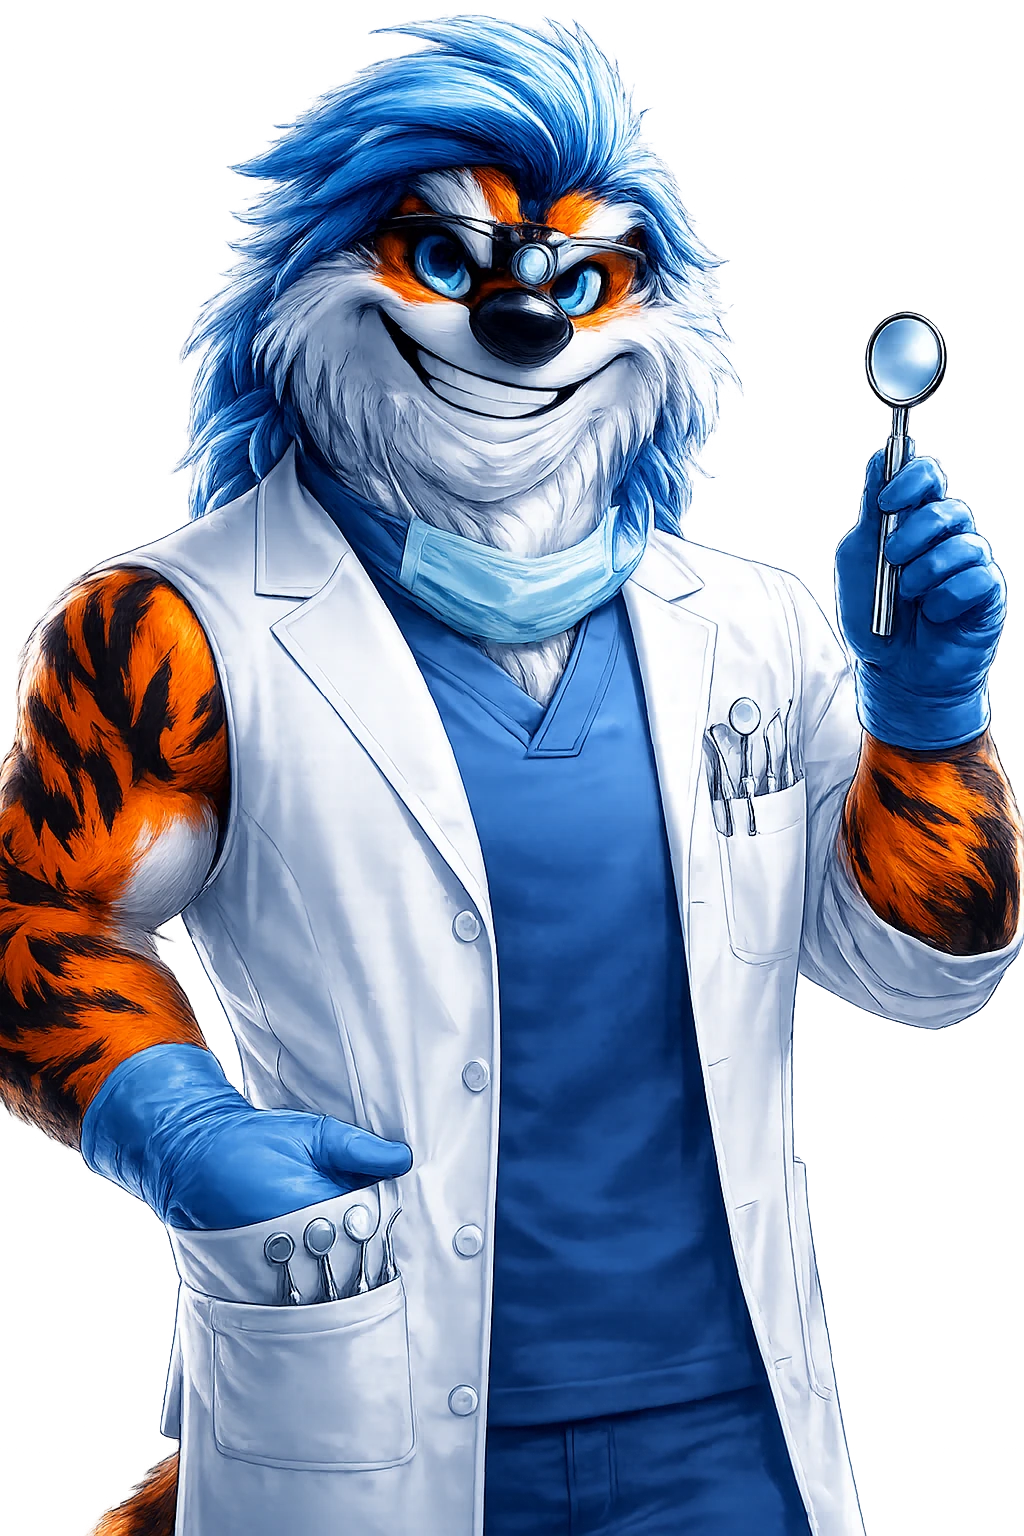
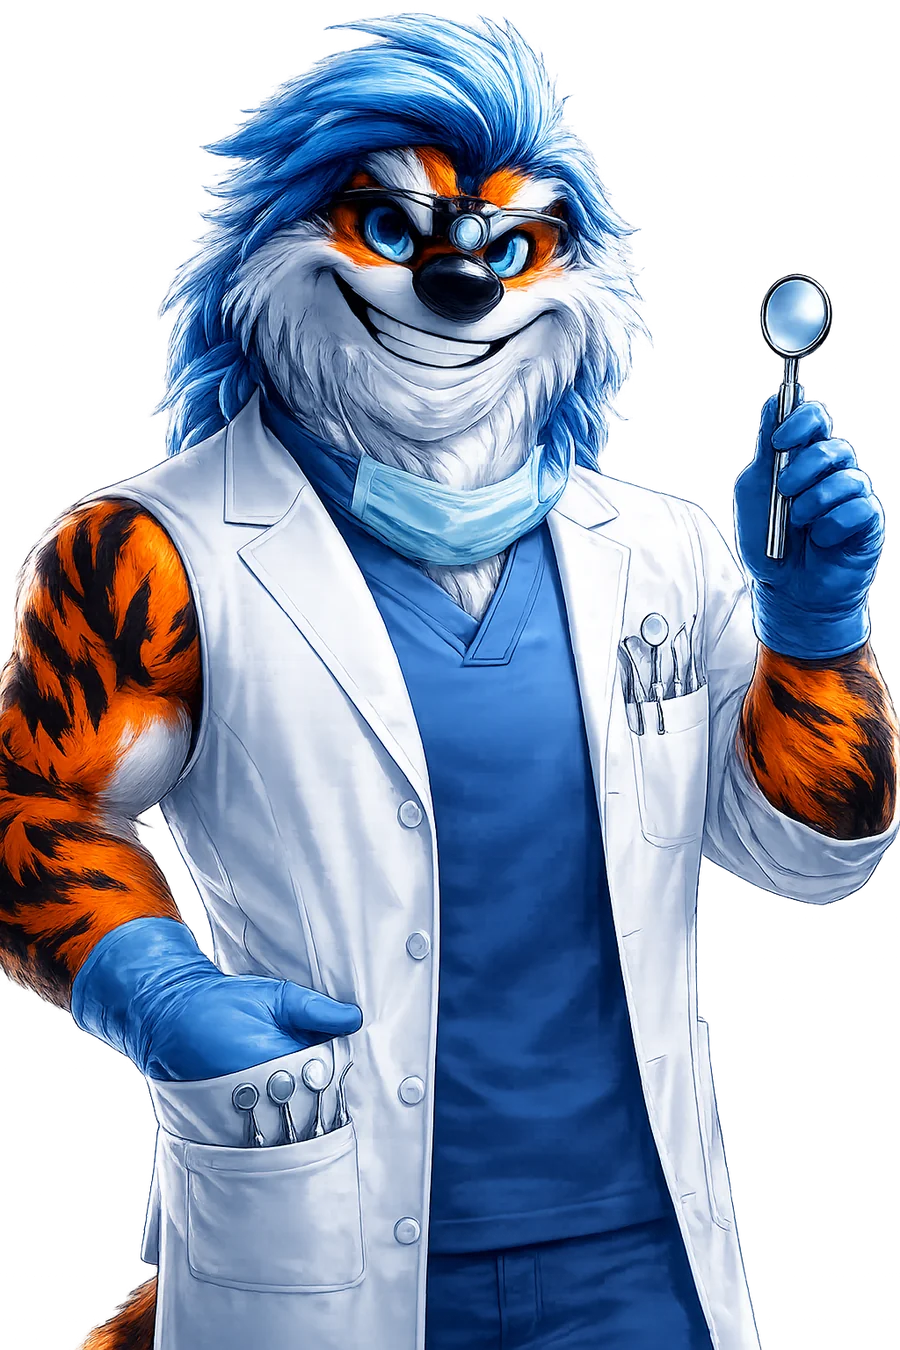
Add files via upload

Changed region(s): [[0.8711, 0.2489, 0.9022, 0.28], [0.6533, 0.1556, 0.6844, 0.1867], [0.56, 0.0622, 0.5911, 0.0933]]

diff --git a/index.html b/index.html
@@ -1,4 +1,4 @@
-<!doctype html><html lang="en-GB"><head><meta charset="utf-8"><meta name="viewport" content="width=device-width, initial-scale=1, viewport-fit=cover"><title>AI SEO for Dentists | Get Your Dental Practice Ready for AI Search | KRONATRIX</title><meta name="description" content="Learn how dentists can make their websites clearer, faster, more structured, and easier for ChatGPT, Gemini, Perplexity, Google AI, Bing Copilot, and patients to understand. Includes a free Dentist Marketing GPT and Dental AI Visibility Check by KRONATRIX."><meta name="keywords" content="AI SEO for dentists, dentist AI SEO, AI visibility for dentists, dental website AI SEO, get dental practice recommended by AI, ChatGPT visibility for dentists, AI website audit for dentists, dental AI visibility check, AI readable dental website, Google AI visibility for dentists"><meta name="author" content="KRONATRIX"><meta name="robots" content="index, follow, max-snippet:-1, max-image-preview:large, max-video-preview:-1"><meta name="googlebot" content="index, follow, max-snippet:-1, max-image-preview:large, max-video-preview:-1"><meta name="theme-color" content="#020617"><meta name="application-name" content="KRONATRIX AI.SEO for Dentists"><meta name="apple-mobile-web-app-title" content="KRONATRIX Dentists"><meta name="format-detection" content="telephone=no"><meta name="geo.region" content="GB"><meta name="geo.placename" content="United Kingdom"><link rel="canonical" href="https://dentists.kronatrix.co.uk/"><link rel="alternate" hreflang="en-gb" href="https://dentists.kronatrix.co.uk/"><link rel="alternate" hreflang="x-default" href="https://dentists.kronatrix.co.uk/"><link rel="preload" as="image" href="assets/kronatrix-k-logo.webp" type="image/webp"><link rel="preload" as="image" href="assets/spencer-aurelius-dentist-kronatrix.webp" type="image/webp"><link rel="icon" type="image/png" sizes="32x32" href="assets/favicon-32.png"><link rel="icon" type="image/png" sizes="64x64" href="assets/favicon-64.png"><link rel="apple-touch-icon" href="assets/apple-touch-icon.png"><meta property="og:type" content="website"><meta property="og:locale" content="en_GB"><meta property="og:site_name" content="KRONATRIX"><meta property="og:title" content="AI SEO for Dentists | KRONATRIX"><meta property="og:description" content="How dentists can make their websites easier for AI systems and patients to understand."><meta property="og:url" content="https://dentists.kronatrix.co.uk/"><meta property="og:image" content="https://dentists.kronatrix.co.uk/assets/og-image.webp"><meta property="og:image:alt" content="KRONATRIX AI.SEO for Dentists social preview with Spencer Aurelius dentist mascot"><meta name="twitter:card" content="summary_large_image"><meta name="twitter:title" content="AI SEO for Dentists | KRONATRIX"><meta name="twitter:description" content="Make your dental practice easier for AI systems and patients to understand."><meta name="twitter:image" content="https://dentists.kronatrix.co.uk/assets/og-image.webp"><style>
+<!doctype html><html lang="en-GB"><head><meta charset="utf-8"><meta name="viewport" content="width=device-width, initial-scale=1, viewport-fit=cover"><title>AI SEO for Dentists | Get Your Dental Practice Ready for AI Search | KRONATRIX</title><meta name="description" content="Learn how dentists can make their websites clearer, faster, more structured, and easier for ChatGPT, Gemini, Perplexity, Google AI, Bing Copilot, and patients to understand. Includes a free Dentist Marketing GPT and Dental AI Visibility Check by KRONATRIX."><meta name="keywords" content="AI SEO for dentists, dentist AI SEO, AI visibility for dentists, dental website AI SEO, get dental practice recommended by AI, ChatGPT visibility for dentists, AI website audit for dentists, dental AI visibility check, AI readable dental website, Google AI visibility for dentists"><meta name="author" content="KRONATRIX"><meta name="robots" content="index, follow, max-snippet:-1, max-image-preview:large, max-video-preview:-1"><meta name="googlebot" content="index, follow, max-snippet:-1, max-image-preview:large, max-video-preview:-1"><meta name="theme-color" content="#020617"><meta name="application-name" content="KRONATRIX AI.SEO for Dentists"><meta name="apple-mobile-web-app-title" content="KRONATRIX Dentists"><meta name="format-detection" content="telephone=no"><meta name="geo.region" content="GB"><meta name="geo.placename" content="United Kingdom"><link rel="canonical" href="https://dentists.kronatrix.co.uk/"><link rel="alternate" hreflang="en-gb" href="https://dentists.kronatrix.co.uk/"><link rel="alternate" hreflang="x-default" href="https://dentists.kronatrix.co.uk/"><link rel="preload" as="image" href="kronatrix-k-logo.webp" type="image/webp"><link rel="preload" as="image" href="spencer-aurelius-dentist-kronatrix.webp" type="image/webp"><link rel="icon" type="image/png" sizes="32x32" href="favicon-32.png"><link rel="icon" type="image/png" sizes="64x64" href="favicon-64.png"><link rel="apple-touch-icon" href="apple-touch-icon.png"><meta property="og:type" content="website"><meta property="og:locale" content="en_GB"><meta property="og:site_name" content="KRONATRIX"><meta property="og:title" content="AI SEO for Dentists | KRONATRIX"><meta property="og:description" content="How dentists can make their websites easier for AI systems and patients to understand."><meta property="og:url" content="https://dentists.kronatrix.co.uk/"><meta property="og:image" content="https://dentists.kronatrix.co.uk/og-image.webp"><meta property="og:image:alt" content="KRONATRIX AI.SEO for Dentists social preview with Spencer Aurelius dentist mascot"><meta name="twitter:card" content="summary_large_image"><meta name="twitter:title" content="AI SEO for Dentists | KRONATRIX"><meta name="twitter:description" content="Make your dental practice easier for AI systems and patients to understand."><meta name="twitter:image" content="https://dentists.kronatrix.co.uk/og-image.webp"><style>
     :root{--bg:#020617;--bg2:#071124;--panel:#071426;--panel2:#0f172a;--text:#f8fafc;--soft:#e0f2fe;--muted:#b9c7d8;--dim:#7890aa;--blue:#38bdf8;--cyan:#67e8f9;--green:#86efac;--orange:#ff9b3d;--line:rgba(125,211,252,.22);--line2:rgba(255,255,255,.10);--shadow:0 26px 80px rgba(0,0,0,.42);--radius:28px;--radius2:18px;--max:1180px}*{box-sizing:border-box}html{scroll-behavior:smooth;background:var(--bg)}body{margin:0;font-family:Inter,ui-sans-serif,system-ui,-apple-system,BlinkMacSystemFont,"Segoe UI",Arial,sans-serif;color:var(--text);background:radial-gradient(circle at 15% 0%,rgba(56,189,248,.23),transparent 32rem),radial-gradient(circle at 88% 7%,rgba(134,239,172,.10),transparent 33rem),linear-gradient(180deg,#020617 0%,#071124 48%,#020617 100%);line-height:1.55;overflow-x:hidden;text-rendering:optimizeLegibility;-webkit-font-smoothing:antialiased}body:before{content:"";position:fixed;inset:0;z-index:-1;pointer-events:none;background-image:linear-gradient(rgba(125,211,252,.045) 1px,transparent 1px),linear-gradient(90deg,rgba(125,211,252,.045) 1px,transparent 1px);background-size:48px 48px;mask-image:linear-gradient(to bottom,#000,transparent 82%)}a{color:inherit;text-decoration:none}img{max-width:100%;height:auto;display:block}button,input,textarea,select{font:inherit}.skip{position:absolute;left:14px;top:-90px;background:var(--cyan);color:#00111c;padding:10px 14px;border-radius:999px;font-weight:1000;z-index:999}.skip:focus{top:14px}.wrap{width:min(var(--max),calc(100% - 32px));margin:0 auto}header{position:sticky;top:0;z-index:100;background:rgba(2,6,23,.84);border-bottom:1px solid var(--line);backdrop-filter:blur(18px)}.nav{min-height:76px;display:flex;align-items:center;justify-content:space-between;gap:14px}.brand{display:flex;align-items:center;gap:12px;min-width:0}.brand img{width:52px;height:52px;border-radius:18px;object-fit:cover;border:1px solid rgba(103,232,249,.45);box-shadow:0 0 34px rgba(56,189,248,.28)}.brand strong{display:block;line-height:1.05;font-size:1rem;letter-spacing:.055em;text-transform:uppercase}.brand span{display:block;color:var(--muted);font-size:.78rem;margin-top:4px}.navlinks{display:flex;align-items:center;justify-content:flex-end;gap:7px;flex-wrap:wrap}.navlinks a{color:var(--muted);font-size:.84rem;font-weight:850;padding:9px 10px;border-radius:999px;border:1px solid transparent}.navlinks a:hover,.navlinks a:focus-visible{color:#fff;border-color:var(--line);background:rgba(56,189,248,.08);outline:0}.btn{display:inline-flex;align-items:center;justify-content:center;gap:9px;min-height:48px;padding:13px 18px;border-radius:999px;border:1px solid var(--line);background:rgba(255,255,255,.045);color:#fff;font-weight:950;text-align:center;transition:transform .18s ease,box-shadow .18s ease,border-color .18s ease;cursor:pointer}.btn:hover,.btn:focus-visible{transform:translateY(-2px);border-color:rgba(103,232,249,.7);box-shadow:0 18px 52px rgba(56,189,248,.20);outline:0}.btn.primary{background:linear-gradient(135deg,var(--green),var(--cyan) 40%,#2563eb);color:#00111c;border-color:rgba(134,239,172,.64);box-shadow:0 22px 70px rgba(56,189,248,.28)}.top-strip{border-bottom:1px solid var(--line2);background:rgba(2,6,23,.62)}.top-strip .wrap{min-height:39px;display:flex;align-items:center;justify-content:center;text-align:center;color:var(--soft);font-size:.9rem;font-weight:800}.top-strip strong{color:var(--green)}.hero{padding:30px 0 28px;border-bottom:1px solid var(--line2)}.hero-grid{display:grid;grid-template-columns:minmax(0,1.06fr) minmax(300px,.94fr);gap:18px;align-items:stretch}.panel,.card,.answer-box,.hero-main,.hero-side,.form-card{border:1px solid var(--line);background:linear-gradient(180deg,rgba(15,29,53,.88),rgba(7,17,36,.86));box-shadow:var(--shadow);border-radius:var(--radius)}.hero-main{padding:clamp(22px,4vw,42px);display:grid;align-content:center;min-height:620px;position:relative;overflow:hidden}.hero-main:after{content:"";position:absolute;right:-130px;top:-130px;width:320px;height:320px;border-radius:50%;background:radial-gradient(circle,rgba(103,232,249,.20),transparent 68%);pointer-events:none}.badge-row{display:flex;gap:8px;align-items:center;flex-wrap:wrap;margin-bottom:14px}.badge{display:inline-flex;align-items:center;gap:8px;border:1px solid rgba(103,232,249,.34);background:rgba(56,189,248,.09);border-radius:999px;padding:8px 11px;color:var(--cyan);font-size:.74rem;font-weight:1000;text-transform:uppercase;letter-spacing:.08em}.badge.green{color:#022c22;background:linear-gradient(135deg,#86efac,#22c55e);border-color:rgba(134,239,172,.55)}.pulse{width:8px;height:8px;border-radius:50%;background:var(--green);box-shadow:0 0 22px var(--green)}h1{font-size:clamp(2.55rem,6vw,5.3rem);line-height:.9;letter-spacing:-.075em;margin:0 0 16px;max-width:900px}h2{font-size:clamp(1.85rem,4vw,3.5rem);line-height:1;letter-spacing:-.055em;margin:0 0 14px}h3{font-size:clamp(1.08rem,2vw,1.42rem);line-height:1.12;letter-spacing:-.035em;margin:0 0 9px}p{margin:0;color:var(--muted)}.gradient{background:linear-gradient(135deg,#fff 4%,#8ff7ff 42%,#60a5fa 72%,#fff 100%);-webkit-background-clip:text;background-clip:text;color:transparent}.lead{font-size:clamp(1.02rem,1.7vw,1.22rem);color:var(--soft);max-width:780px;margin:0 0 16px}.sublead{color:var(--muted);max-width:760px;margin:0 0 18px}.hero-actions{display:flex;gap:10px;flex-wrap:wrap;margin:20px 0 18px}.microproof{display:grid;grid-template-columns:repeat(4,1fr);gap:10px;margin-top:16px}.microproof div{border:1px solid var(--line2);border-radius:17px;background:rgba(2,6,23,.36);padding:13px}.microproof strong{display:block;color:#fff;font-size:.92rem;line-height:1.2;margin-bottom:4px}.microproof span{display:block;color:var(--muted);font-size:.82rem;line-height:1.35}.hero-side{padding:16px;display:grid;gap:12px;min-height:620px;overflow:hidden}.image-stage{display:grid;place-items:end center;min-height:510px;border:1px solid rgba(103,232,249,.27);background:radial-gradient(circle at 50% 75%,rgba(56,189,248,.25),transparent 42%),linear-gradient(180deg,rgba(2,6,23,.22),rgba(2,6,23,.78));border-radius:25px;overflow:hidden;position:relative}.image-stage:before{content:"";position:absolute;width:82%;aspect-ratio:1;border-radius:50%;border:1px dashed rgba(103,232,249,.28);bottom:-10%;left:9%;box-shadow:0 0 80px rgba(56,189,248,.12)}.hero-mascot{position:relative;z-index:1;max-height:560px;object-fit:contain;filter:drop-shadow(0 34px 50px rgba(0,0,0,.52)) drop-shadow(0 0 32px rgba(56,189,248,.22))}.side-note{border:1px solid rgba(134,239,172,.24);background:rgba(134,239,172,.08);border-radius:20px;padding:14px}.side-note strong{display:block;color:#dcffe8;margin-bottom:4px}section{padding:clamp(48px,8vw,92px) 0}.section-head{max-width:850px;margin-bottom:22px}.section-kicker{display:inline-flex;color:var(--cyan);font-weight:1000;text-transform:uppercase;letter-spacing:.1em;font-size:.78rem;margin-bottom:10px}.grid{display:grid;grid-template-columns:repeat(3,1fr);gap:14px}.grid.four{grid-template-columns:repeat(4,1fr)}.grid.two{grid-template-columns:repeat(2,1fr)}.card{padding:22px;position:relative;overflow:hidden}.card:before{content:"";position:absolute;inset:0;background:radial-gradient(circle at 18% 0%,rgba(103,232,249,.12),transparent 38%);pointer-events:none}.card>*{position:relative}.answer-box{padding:clamp(24px,4vw,38px);background:linear-gradient(135deg,rgba(56,189,248,.14),rgba(15,29,53,.80));border-color:rgba(103,232,249,.38)}.answer-box p{font-size:clamp(1.02rem,1.5vw,1.18rem);color:var(--soft);max-width:930px}.note{margin-top:16px;border-left:4px solid var(--green);padding:13px 14px;border-radius:14px;background:rgba(134,239,172,.08);color:#ddffed}.split{display:grid;grid-template-columns:1fr 1fr;gap:16px;align-items:stretch}.compare{padding:24px;border-radius:var(--radius);border:1px solid var(--line);background:rgba(2,6,23,.36)}.compare h3{color:#fff}ul.clean{list-style:none;margin:16px 0 0;padding:0;display:grid;gap:8px}ul.clean li{display:grid;grid-template-columns:22px 1fr;gap:9px;color:var(--muted)}ul.clean li:before{content:"✓";width:22px;height:22px;border-radius:8px;display:grid;place-items:center;background:rgba(56,189,248,.11);color:var(--cyan);font-weight:1000;font-size:.8rem}.prompt-card{font-size:.98rem;color:#e8f7ff;border-color:rgba(103,232,249,.28)}.score{display:grid;grid-template-columns:repeat(4,1fr);gap:10px}.score .card{padding:16px}.score .card h3{font-size:1rem}.score .card p{font-size:.88rem;line-height:1.38}.gpt-box{display:grid;grid-template-columns:1.1fr .9fr;gap:18px;align-items:stretch}.gpt-panel{padding:clamp(24px,4vw,36px);border-radius:var(--radius);background:linear-gradient(135deg,rgba(134,239,172,.12),rgba(56,189,248,.12)),rgba(7,20,38,.82);border:1px solid rgba(134,239,172,.30);box-shadow:var(--shadow)}.questions{display:grid;gap:8px}.questions div{border:1px solid var(--line2);border-radius:14px;padding:10px 12px;color:var(--soft);background:rgba(2,6,23,.32)}.form-card{padding:clamp(22px,4vw,38px)}form{display:grid;gap:13px}label{display:grid;gap:6px;color:var(--soft);font-weight:850}input,textarea,select{width:100%;border:1px solid rgba(125,211,252,.30);border-radius:14px;background:rgba(2,6,23,.60);color:#fff;padding:13px 14px;outline:0}input:focus,textarea:focus,select:focus{border-color:var(--cyan);box-shadow:0 0 0 4px rgba(103,232,249,.12)}textarea{min-height:110px;resize:vertical}.form-grid{display:grid;grid-template-columns:repeat(2,1fr);gap:13px}.faq-list{display:grid;gap:10px}.faq-item{border:1px solid var(--line);border-radius:18px;background:rgba(15,29,53,.76);overflow:hidden}.faq-item summary{cursor:pointer;padding:16px 18px;font-weight:950;color:#fff}.faq-item p{padding:0 18px 18px;color:var(--muted)}.cta{text-align:center;border:1px solid rgba(103,232,249,.28);border-radius:var(--radius);padding:clamp(28px,5vw,54px);background:radial-gradient(circle at top,rgba(56,189,248,.16),transparent 40%),linear-gradient(180deg,rgba(15,29,53,.88),rgba(2,6,23,.80));box-shadow:var(--shadow)}.cta p{max-width:760px;margin:0 auto 20px;color:var(--soft)}footer{border-top:1px solid var(--line);padding:38px 0;background:rgba(2,6,23,.72)}.footer-grid{display:grid;grid-template-columns:1.2fr .8fr .8fr;gap:18px}.footer-links{display:grid;gap:8px}.footer-links a{color:var(--muted);font-weight:780}.footer-links a:hover{color:#fff}.disclaimer{margin-top:20px;border:1px solid rgba(255,255,255,.10);border-radius:18px;padding:14px;color:var(--muted);font-size:.9rem;background:rgba(255,255,255,.035)}.small{font-size:.88rem;color:var(--dim)}@media(max-width:1040px){.hero-grid,.gpt-box,.split{grid-template-columns:1fr}.hero-main,.hero-side{min-height:auto}.microproof,.grid.four,.score{grid-template-columns:repeat(2,1fr)}.hero-mascot{max-height:520px}.image-stage{min-height:420px}.nav{align-items:flex-start;padding:10px 0;flex-direction:column}.navlinks{justify-content:flex-start}}@media(max-width:720px){.wrap{width:min(var(--max),calc(100% - 24px))}.top-strip .wrap{font-size:.8rem}h1{font-size:clamp(2.32rem,12vw,3.55rem)}.hero{padding-top:18px}.hero-main{padding:20px}.hero-actions .btn,.cta .btn{width:100%}.microproof,.grid,.grid.four,.grid.two,.score,.form-grid,.footer-grid{grid-template-columns:1fr}section{padding:44px 0}.image-stage{min-height:340px}.hero-mascot{max-height:410px}.brand img{width:46px;height:46px}.navlinks a{font-size:.79rem;padding:8px}.footer-grid{gap:26px}}
 </style><script type="application/ld+json">{
   "@context": "https://schema.org",
@@ -11,7 +11,7 @@
       "logo": {
         "@type": "ImageObject",
         "@id": "https://dentists.kronatrix.co.uk/#logo",
-        "url": "https://dentists.kronatrix.co.uk/assets/kronatrix-k-logo.webp",
+        "url": "https://dentists.kronatrix.co.uk/kronatrix-k-logo.webp",
         "caption": "KRONATRIX K logo for AI.SEO websites"
       },
       "sameAs": [
@@ -68,7 +68,7 @@
     {
       "@type": "ImageObject",
       "@id": "https://dentists.kronatrix.co.uk/#spencer-dentist-image",
-      "url": "https://dentists.kronatrix.co.uk/assets/spencer-aurelius-dentist-kronatrix.webp",
+      "url": "https://dentists.kronatrix.co.uk/spencer-aurelius-dentist-kronatrix.webp",
       "caption": "Spencer Aurelius, the KRONATRIX tiger mascot, dressed as a futuristic dentist holding a dental mirror for the AI.SEO for Dentists website"
     },
     {
@@ -216,7 +216,7 @@
       ]
     }
   ]
-}</script></head><body><a class="skip" href="#main">Skip to main content</a><div class="top-strip"><div class="wrap">Free bonus included: <strong>Dentist Marketing by KRONATRIX™</strong> — ask personalised marketing questions before you enquire.</div></div><header><div class="wrap nav"><a class="brand" href="https://dentists.kronatrix.co.uk/"><img src="assets/kronatrix-k-logo.webp" alt="KRONATRIX K logo for AI.SEO websites" width="52" height="52"><span><strong>AI.SEO for Dentists</strong><span>Built by KRONATRIX</span></span></a><nav class="navlinks"><a href="#short-answer">Short Answer</a><a href="#problem">Problem</a><a href="#method">Method</a><a href="#scorecard">Scorecard</a><a href="#free-gpt">Free GPT</a><a href="#faq">FAQ</a><a class="btn primary" href="#check">Get Check</a></nav></div></header><main id="main"><section class="hero"><div class="wrap hero-grid"><div class="hero-main"><div class="badge-row"><span class="badge green"><span class="pulse"></span>Free dentist GPT included</span><span class="badge">No fake AI ranking guarantees</span><span class="badge">Prompt-first dental strategy</span></div><h1><span class="gradient">How Do Dentists Get Recommended by AI?</span></h1><p class="lead">Dental practices improve their chance of being found by AI systems by making their websites crawlable, clear, fast, structured and trustworthy.</p><p class="sublead">KRONATRIX builds AI-readable dental website structures designed to help ChatGPT, Gemini, Perplexity, Google AI, Bing Copilot and real patients understand what a practice does, where it operates and why it can be trusted.</p><div class="hero-actions"><a class="btn primary" href="#check">Get My Dental AI Visibility Check</a><a class="btn" href="https://chatgpt.com/g/g-69340733fbc88191b34b7eedb8e64ca2-dentist-marketing-by-kronatrixtm" target="_blank" rel="noopener">Use the Free Dentist Marketing GPT</a></div><div class="microproof"><div><strong>AI-readable structure</strong><span>Clean sections built for humans and extraction.</span></div><div><strong>Dental prompt mapping</strong><span>Pages shaped around real AI questions.</span></div><div><strong>Fast static build</strong><span>Lightweight GitHub-ready foundations.</span></div><div><strong>Clear enquiry path</strong><span>Visibility must connect to action.</span></div></div></div><aside class="hero-side"><div class="image-stage"><img class="hero-mascot" src="assets/spencer-aurelius-dentist-kronatrix.webp" alt="Spencer Aurelius, the KRONATRIX tiger mascot, dressed as a futuristic dentist holding a dental mirror for the AI.SEO for Dentists website" width="1024" height="1536" fetchpriority="high"></div><div class="side-note"><strong>Proof being built publicly.</strong><p>KRONATRIX will not invent dentist case studies. This site shows the method first, then real proof gets added as it is created.</p></div></aside></div></section><section id="short-answer"><div class="wrap"><div class="answer-box"><span class="section-kicker">Short answer</span><h2>How dentists get recommended by AI</h2><p>Dentists get recommended by AI when their website clearly explains who they are, where they are based, what treatments they provide, why they can be trusted, and how patients can take action. A strong AI.SEO dental website uses clean HTML, treatment pages, location signals, team information, proof, FAQs, schema, internal links, fast mobile loading, and a clear enquiry path.</p><div class="note">No website can force an AI system to recommend it. The practical goal is to make the practice easier to crawl, understand, verify and trust.</div></div></div></section><section id="who"><div class="wrap"><div class="section-head"><span class="section-kicker">Who this helps</span><h2>Dental practices that need clearer AI visibility foundations</h2><p>KRONATRIX speaks to dental practice owners who want their websites to be easier for AI systems, search engines and real patients to understand.</p></div><div class="grid four"><article class="card"><h3>Private dental practices</h3><p>Clarify services, location and trust signals for higher-intent visitors.</p></article>
+}</script></head><body><a class="skip" href="#main">Skip to main content</a><div class="top-strip"><div class="wrap">Free bonus included: <strong>Dentist Marketing by KRONATRIX™</strong> — ask personalised marketing questions before you enquire.</div></div><header><div class="wrap nav"><a class="brand" href="https://dentists.kronatrix.co.uk/"><img src="kronatrix-k-logo.webp" alt="KRONATRIX K logo for AI.SEO websites" width="52" height="52"><span><strong>AI.SEO for Dentists</strong><span>Built by KRONATRIX</span></span></a><nav class="navlinks"><a href="#short-answer">Short Answer</a><a href="#problem">Problem</a><a href="#method">Method</a><a href="#scorecard">Scorecard</a><a href="#free-gpt">Free GPT</a><a href="#faq">FAQ</a><a class="btn primary" href="#check">Get Check</a></nav></div></header><main id="main"><section class="hero"><div class="wrap hero-grid"><div class="hero-main"><div class="badge-row"><span class="badge green"><span class="pulse"></span>Free dentist GPT included</span><span class="badge">No fake AI ranking guarantees</span><span class="badge">Prompt-first dental strategy</span></div><h1><span class="gradient">How Do Dentists Get Recommended by AI?</span></h1><p class="lead">Dental practices improve their chance of being found by AI systems by making their websites crawlable, clear, fast, structured and trustworthy.</p><p class="sublead">KRONATRIX builds AI-readable dental website structures designed to help ChatGPT, Gemini, Perplexity, Google AI, Bing Copilot and real patients understand what a practice does, where it operates and why it can be trusted.</p><div class="hero-actions"><a class="btn primary" href="#check">Get My Dental AI Visibility Check</a><a class="btn" href="https://chatgpt.com/g/g-69340733fbc88191b34b7eedb8e64ca2-dentist-marketing-by-kronatrixtm" target="_blank" rel="noopener">Use the Free Dentist Marketing GPT</a></div><div class="microproof"><div><strong>AI-readable structure</strong><span>Clean sections built for humans and extraction.</span></div><div><strong>Dental prompt mapping</strong><span>Pages shaped around real AI questions.</span></div><div><strong>Fast static build</strong><span>Lightweight GitHub-ready foundations.</span></div><div><strong>Clear enquiry path</strong><span>Visibility must connect to action.</span></div></div></div><aside class="hero-side"><div class="image-stage"><img class="hero-mascot" src="spencer-aurelius-dentist-kronatrix.webp" alt="Spencer Aurelius, the KRONATRIX tiger mascot, dressed as a futuristic dentist holding a dental mirror for the AI.SEO for Dentists website" width="1024" height="1536" fetchpriority="high"></div><div class="side-note"><strong>Proof being built publicly.</strong><p>KRONATRIX will not invent dentist case studies. This site shows the method first, then real proof gets added as it is created.</p></div></aside></div></section><section id="short-answer"><div class="wrap"><div class="answer-box"><span class="section-kicker">Short answer</span><h2>How dentists get recommended by AI</h2><p>Dentists get recommended by AI when their website clearly explains who they are, where they are based, what treatments they provide, why they can be trusted, and how patients can take action. A strong AI.SEO dental website uses clean HTML, treatment pages, location signals, team information, proof, FAQs, schema, internal links, fast mobile loading, and a clear enquiry path.</p><div class="note">No website can force an AI system to recommend it. The practical goal is to make the practice easier to crawl, understand, verify and trust.</div></div></div></section><section id="who"><div class="wrap"><div class="section-head"><span class="section-kicker">Who this helps</span><h2>Dental practices that need clearer AI visibility foundations</h2><p>KRONATRIX speaks to dental practice owners who want their websites to be easier for AI systems, search engines and real patients to understand.</p></div><div class="grid four"><article class="card"><h3>Private dental practices</h3><p>Clarify services, location and trust signals for higher-intent visitors.</p></article>
 <article class="card"><h3>Dental implant clinics</h3><p>Make implant pages more specific, structured and easier to understand.</p></article>
 <article class="card"><h3>Invisalign &amp; clear aligner dentists</h3><p>Turn treatment interest into clearer AI-readable service pathways.</p></article>
 <article class="card"><h3>Cosmetic dentists</h3><p>Explain treatment categories, proof signals and patient enquiry paths clearly.</p></article>
@@ -293,4 +293,4 @@
 <details class="faq-item"><summary>Why does KRONATRIX say proof is being built publicly?</summary><p>KRONATRIX is new and will not invent dental case studies. The site shows the method first, then real examples, audits, screenshots and results can be added as they are created.</p></details>
 <details class="faq-item"><summary>Why can a good-looking dental website still fail AI visibility?</summary><p>A good-looking site can still be vague, slow, thin, hard to crawl or unclear about services, location, proof and trust. AI systems need information they can access, classify and verify.</p></details>
 <details class="faq-item"><summary>Should dental practices still use Google Business Profile?</summary><p>Yes. Google Business Profile is an important local trust and discovery asset. A dental website should connect clearly with its wider local presence and business identity.</p></details>
-<details class="faq-item"><summary>What is the first thing a dentist should fix on their website?</summary><p>Start with clarity. The homepage should quickly explain who the practice is, where it operates, what treatments it provides, why it can be trusted and how someone can enquire.</p></details></div></div></section><section><div class="wrap"><div class="cta"><h2>Make your dental practice easier for AI and patients to understand</h2><p>If your dental website is unclear to AI systems, it may also be unclear to the people choosing who to trust. KRONATRIX helps dental practices build clearer, faster, more structured websites for the AI search era.</p><div class="hero-actions" style="justify-content:center"><a class="btn primary" href="#check">Get My Dental AI Visibility Check</a><a class="btn" href="https://chatgpt.com/g/g-69340733fbc88191b34b7eedb8e64ca2-dentist-marketing-by-kronatrixtm" target="_blank" rel="noopener">Use the Free Dentist Marketing GPT</a></div></div></div></section></main><footer><div class="wrap footer-grid"><div><a class="brand" href="https://kronatrix.co.uk/"><img src="assets/kronatrix-k-logo.webp" alt="KRONATRIX K logo for AI.SEO websites" width="52" height="52"><span><strong>KRONATRIX AI.SEO</strong><span>AI Recommendation Websites</span></span></a><p style="margin-top:14px">KRONATRIX builds AI Recommendation Websites designed to help businesses become easier for AI systems and humans to crawl, understand, trust, cite and consider.</p></div><div><h3>KRONATRIX links</h3><div class="footer-links"><a href="https://kronatrix.co.uk/">KRONATRIX</a><a href="https://aivisibilitycheck.kronatrix.co.uk/">Free AI Visibility Checker</a><a href="https://airecommendations.kronatrix.co.uk/">AI Recommendations Guide</a><a href="https://aiwebsiteaudit.kronatrix.co.uk/">AI Website Audit</a><a href="https://marketing-gpts.kronatrix.co.uk/">KRONATRIX Marketing GPTs</a><a href="https://chatgpt.com/g/g-69340733fbc88191b34b7eedb8e64ca2-dentist-marketing-by-kronatrixtm">Dentist Marketing by KRONATRIX™</a></div></div><div><h3>Social/entity links</h3><div class="footer-links"><a href="https://www.youtube.com/@KRONATRIX-AI">YouTube</a><a href="https://www.instagram.com/kronatrix/">Instagram</a><a href="https://x.com/KRONATRIX_">X</a><a href="https://medium.com/@boostyouronlinepresencetoday">Medium</a><a href="https://uk.linkedin.com/company/kronatrix">LinkedIn</a></div></div></div><div class="wrap disclaimer">KRONATRIX does not provide dental, medical, clinical, or patient treatment advice. This website explains AI.SEO, website visibility, marketing structure, online trust signals, and conversion clarity for dental practices. Patients should speak directly with qualified dental professionals for clinical guidance.</div></footer></body></html>
+<details class="faq-item"><summary>What is the first thing a dentist should fix on their website?</summary><p>Start with clarity. The homepage should quickly explain who the practice is, where it operates, what treatments it provides, why it can be trusted and how someone can enquire.</p></details></div></div></section><section><div class="wrap"><div class="cta"><h2>Make your dental practice easier for AI and patients to understand</h2><p>If your dental website is unclear to AI systems, it may also be unclear to the people choosing who to trust. KRONATRIX helps dental practices build clearer, faster, more structured websites for the AI search era.</p><div class="hero-actions" style="justify-content:center"><a class="btn primary" href="#check">Get My Dental AI Visibility Check</a><a class="btn" href="https://chatgpt.com/g/g-69340733fbc88191b34b7eedb8e64ca2-dentist-marketing-by-kronatrixtm" target="_blank" rel="noopener">Use the Free Dentist Marketing GPT</a></div></div></div></section></main><footer><div class="wrap footer-grid"><div><a class="brand" href="https://kronatrix.co.uk/"><img src="kronatrix-k-logo.webp" alt="KRONATRIX K logo for AI.SEO websites" width="52" height="52"><span><strong>KRONATRIX AI.SEO</strong><span>AI Recommendation Websites</span></span></a><p style="margin-top:14px">KRONATRIX builds AI Recommendation Websites designed to help businesses become easier for AI systems and humans to crawl, understand, trust, cite and consider.</p></div><div><h3>KRONATRIX links</h3><div class="footer-links"><a href="https://kronatrix.co.uk/">KRONATRIX</a><a href="https://aivisibilitycheck.kronatrix.co.uk/">Free AI Visibility Checker</a><a href="https://airecommendations.kronatrix.co.uk/">AI Recommendations Guide</a><a href="https://aiwebsiteaudit.kronatrix.co.uk/">AI Website Audit</a><a href="https://marketing-gpts.kronatrix.co.uk/">KRONATRIX Marketing GPTs</a><a href="https://chatgpt.com/g/g-69340733fbc88191b34b7eedb8e64ca2-dentist-marketing-by-kronatrixtm">Dentist Marketing by KRONATRIX™</a></div></div><div><h3>Social/entity links</h3><div class="footer-links"><a href="https://www.youtube.com/@KRONATRIX-AI">YouTube</a><a href="https://www.instagram.com/kronatrix/">Instagram</a><a href="https://x.com/KRONATRIX_">X</a><a href="https://medium.com/@boostyouronlinepresencetoday">Medium</a><a href="https://uk.linkedin.com/company/kronatrix">LinkedIn</a></div></div></div><div class="wrap disclaimer">KRONATRIX does not provide dental, medical, clinical, or patient treatment advice. This website explains AI.SEO, website visibility, marketing structure, online trust signals, and conversion clarity for dental practices. Patients should speak directly with qualified dental professionals for clinical guidance.</div></footer></body></html>

diff --git a/404.html b/404.html
@@ -1,1 +1,1 @@
-<!doctype html><html lang="en-GB"><head><meta charset="utf-8"><meta name="viewport" content="width=device-width, initial-scale=1"><title>Page Not Found | KRONATRIX AI.SEO for Dentists</title><meta name="robots" content="noindex, follow"><link rel="icon" type="image/png" sizes="32x32" href="assets/favicon-32.png"><style>:root{--bg:#020617;--panel:#071426;--text:#f8fafc;--muted:#b9c7d8;--cyan:#67e8f9;--green:#86efac;--line:rgba(125,211,252,.24)}*{box-sizing:border-box}body{margin:0;min-height:100svh;display:grid;place-items:center;font-family:Inter,system-ui,-apple-system,"Segoe UI",Arial,sans-serif;color:var(--text);background:radial-gradient(circle at 50% 0%,rgba(56,189,248,.22),transparent 34rem),#020617}.box{width:min(720px,calc(100% - 32px));border:1px solid var(--line);border-radius:28px;padding:34px;background:linear-gradient(180deg,rgba(15,29,53,.88),rgba(7,17,36,.86));text-align:center;box-shadow:0 26px 80px rgba(0,0,0,.42)}img{width:72px;height:72px;border-radius:22px;margin:0 auto 18px;box-shadow:0 0 34px rgba(56,189,248,.28)}h1{font-size:clamp(2rem,7vw,4rem);line-height:1;margin:0 0 12px;letter-spacing:-.06em}p{color:var(--muted);font-size:1.05rem}.actions{display:flex;gap:10px;justify-content:center;flex-wrap:wrap;margin-top:24px}.btn{display:inline-flex;min-height:48px;align-items:center;justify-content:center;padding:13px 18px;border-radius:999px;border:1px solid var(--line);text-decoration:none;color:#fff;font-weight:900}.primary{background:linear-gradient(135deg,var(--green),var(--cyan));color:#00111c}</style></head><body><main class="box"><img src="assets/kronatrix-k-logo.webp" alt="KRONATRIX K logo"><h1>This KRONATRIX page could not be found.</h1><p>The page may have moved, but the KRONATRIX AI.SEO system is still active.</p><div class="actions"><a class="btn primary" href="/">Back to Dentists AI.SEO</a><a class="btn" href="https://kronatrix.co.uk/">Visit KRONATRIX.CO.UK</a></div></main></body></html>
+<!doctype html><html lang="en-GB"><head><meta charset="utf-8"><meta name="viewport" content="width=device-width, initial-scale=1"><title>Page Not Found | KRONATRIX AI.SEO for Dentists</title><meta name="robots" content="noindex, follow"><link rel="icon" type="image/png" sizes="32x32" href="favicon-32.png"><style>:root{--bg:#020617;--panel:#071426;--text:#f8fafc;--muted:#b9c7d8;--cyan:#67e8f9;--green:#86efac;--line:rgba(125,211,252,.24)}*{box-sizing:border-box}body{margin:0;min-height:100svh;display:grid;place-items:center;font-family:Inter,system-ui,-apple-system,"Segoe UI",Arial,sans-serif;color:var(--text);background:radial-gradient(circle at 50% 0%,rgba(56,189,248,.22),transparent 34rem),#020617}.box{width:min(720px,calc(100% - 32px));border:1px solid var(--line);border-radius:28px;padding:34px;background:linear-gradient(180deg,rgba(15,29,53,.88),rgba(7,17,36,.86));text-align:center;box-shadow:0 26px 80px rgba(0,0,0,.42)}img{width:72px;height:72px;border-radius:22px;margin:0 auto 18px;box-shadow:0 0 34px rgba(56,189,248,.28)}h1{font-size:clamp(2rem,7vw,4rem);line-height:1;margin:0 0 12px;letter-spacing:-.06em}p{color:var(--muted);font-size:1.05rem}.actions{display:flex;gap:10px;justify-content:center;flex-wrap:wrap;margin-top:24px}.btn{display:inline-flex;min-height:48px;align-items:center;justify-content:center;padding:13px 18px;border-radius:999px;border:1px solid var(--line);text-decoration:none;color:#fff;font-weight:900}.primary{background:linear-gradient(135deg,var(--green),var(--cyan));color:#00111c}</style></head><body><main class="box"><img src="kronatrix-k-logo.webp" alt="KRONATRIX K logo"><h1>This KRONATRIX page could not be found.</h1><p>The page may have moved, but the KRONATRIX AI.SEO system is still active.</p><div class="actions"><a class="btn primary" href="/">Back to Dentists AI.SEO</a><a class="btn" href="https://kronatrix.co.uk/">Visit KRONATRIX.CO.UK</a></div></main></body></html>